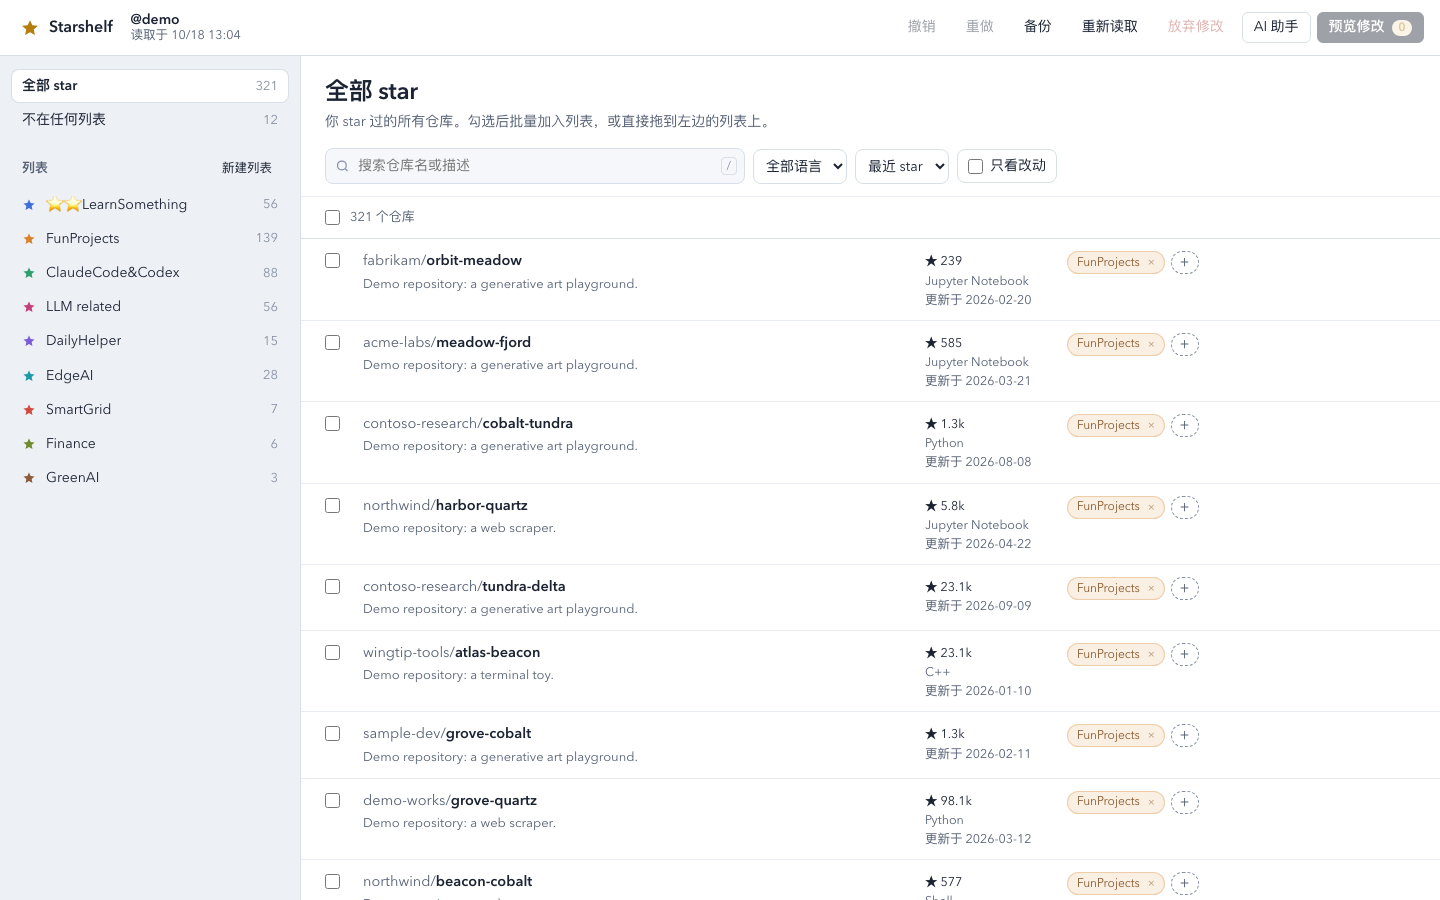
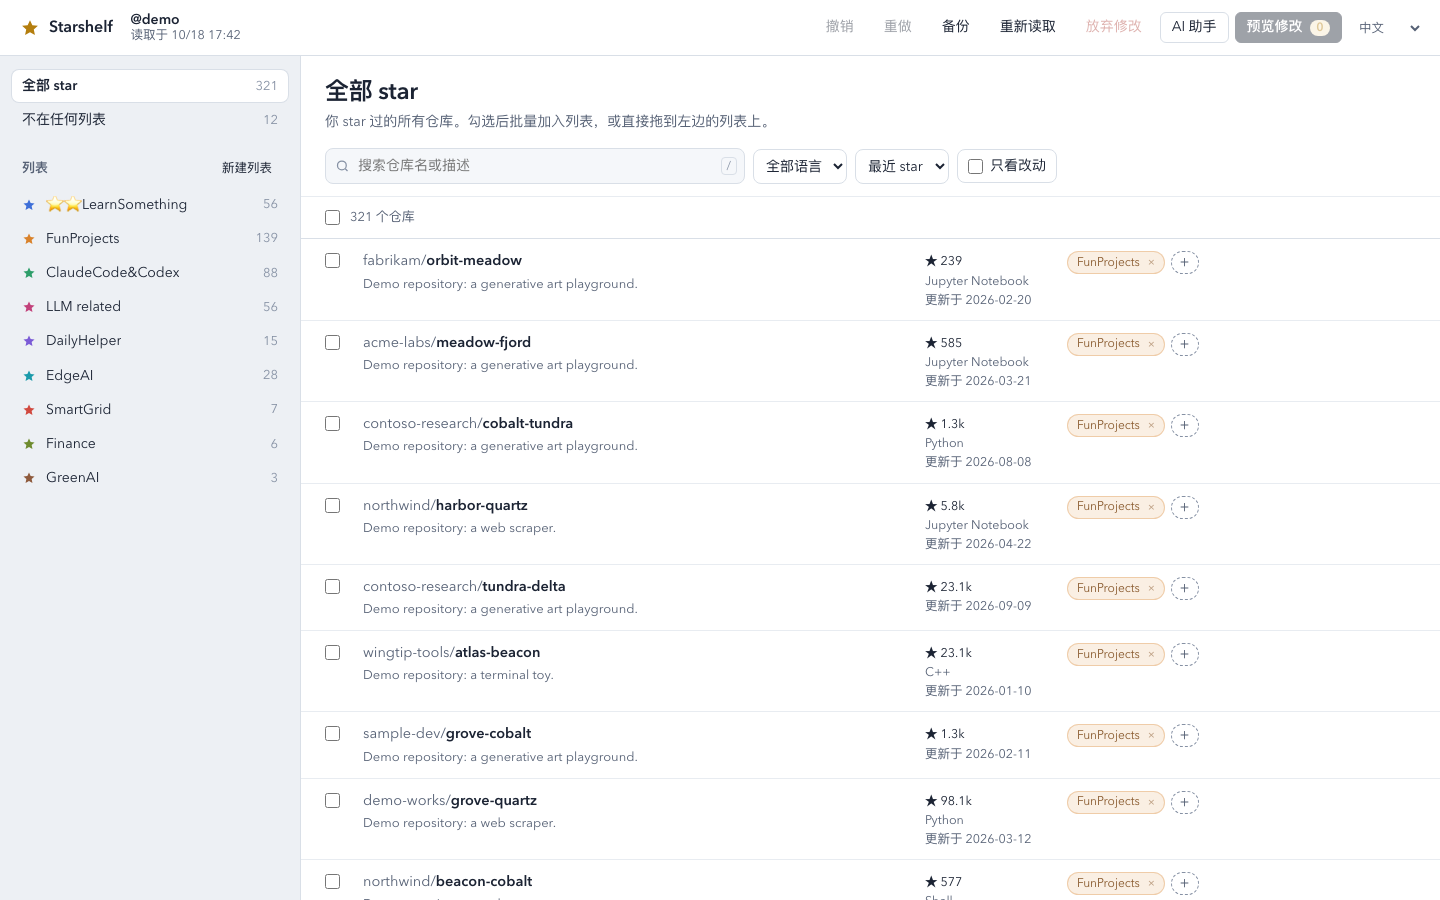
docs: language section in both READMEs, English screenshots
- README / README.zh-CN: a "Language / 界面语言" section (where the switch is,
  what follows it, first-run default, SLLanguage, what is not translated).
- docs/screenshots: redrawn in Chinese; docs/screenshots/en: the same four
  in English, used by README.md. tests/make_screenshots.py redraws both
  from the demo account (fake GitHub + fake AI, nothing applied).
- AI drawer header: tighter spacing so "AI assistant" fits at the default
  width (the backend picker shrinks first).

Changed region(s): [[0.8125, 0.0, 1.0, 0.0622], [0.625, 0.0, 0.7812, 0.0622], [0.5625, 0.0, 0.5938, 0.0311]]

diff --git a/star_lists_ui.html b/star_lists_ui.html
@@ -318,9 +318,10 @@ details pre { max-height: 220px; overflow: auto; background: var(--sunk); border
 .chat-resize:hover::after, .chat-resize:focus-visible::after, .chat-resize.dragging::after { background: var(--focus); }
 .chat-resize:focus-visible { outline: none; }
 body.resizing { cursor: col-resize; user-select: none; }
-.chat-head { display: flex; align-items: center; gap: 8px; padding: 12px 14px 10px; border-bottom: 1px solid var(--rule-2); }
-.chat-head h2 { margin: 0; font-size: 15px; font-weight: 600; flex: 1; min-width: 0; white-space: nowrap; overflow: hidden; text-overflow: ellipsis; }
-.chat-head select { max-width: 150px; font-size: 12.5px; padding: 4px 6px; }
+.chat-head { display: flex; align-items: center; gap: 6px; padding: 12px 12px 10px 14px; border-bottom: 1px solid var(--rule-2); }
+.chat-head h2 { margin: 0; font-size: 15px; font-weight: 600; flex: 1 0 auto; white-space: nowrap; }
+.chat-head select { max-width: 150px; min-width: 0; flex: 0 1 auto; font-size: 12.5px; padding: 4px 6px; }
+.chat-head button.small { padding: 4px 7px; flex: none; }
 .chat-note { padding: 8px 14px 0; font-size: 12.5px; color: var(--ink-2); }
 .chat-note:empty { display: none; }
 .chat-note .warn { margin-top: 0; padding: 7px 10px; font-size: 12px; }

diff --git a/tests/make_screenshots.py b/tests/make_screenshots.py
@@ -1,0 +1,130 @@
+"""Draw the README screenshots from the made-up demo account, in Chinese and in English.
+
+    python3 tests/make_screenshots.py      # writes docs/screenshots/*.png (中文) and docs/screenshots/en/*.png
+
+Uses the fake GitHub and a fake AI (no network, no token); nothing is applied.
+Needs: pip install playwright && python3 -m playwright install chromium
+"""
+from __future__ import annotations
+
+import sys
+import tempfile
+import threading
+from pathlib import Path
+from typing import Any
+
+ROOT = Path(__file__).resolve().parents[1]
+sys.path[:0] = [str(ROOT), str(Path(__file__).parent)]
+import star_lists_ai as ai  # noqa: E402
+import star_lists_ui as ui  # noqa: E402
+from fake_ai import FakeSuggester, chat_repos, list_names  # noqa: E402
+from fake_github import FakeGitHub  # noqa: E402
+from playwright.sync_api import Page, expect, sync_playwright  # noqa: E402
+
+SNAP = Path(__file__).parent / "fixtures" / "demo_snapshot.json"
+OUT = {"zh": ROOT / "docs" / "screenshots", "en": ROOT / "docs" / "screenshots" / "en"}
+TEXT = {
+    "zh": {"locale": "zh-CN", "ask": "请把第二个列表里两个学习类的仓库移到第一个",
+           "reply": "已把 **2 个仓库** 从 {src} 移到 {dst}：\n- {repo} 更适合 {dst}\n- 另一个也是入门教程，一起移过去了",
+           "mac": "💻 Mac & Terminal", "research": "📝 Research & Writing"},
+    "en": {"locale": "en-US", "ask": "Move the two tutorial repos in the second list to the first one",
+           "reply": "Moved **2 repositories** from {src} to {dst}:\n- {repo} fits {dst} better\n- the other one is a tutorial too, so it moved with it",
+           "mac": "💻 Mac & Terminal", "research": "📝 Research & Writing"},
+}
+
+
+def answer(prompt: ai.Prompt) -> dict[str, Any]:
+    """Move two repos from the second list to the first, replying in the page's language."""
+    refs = list(list_names(prompt))
+    src, dst = refs[1], refs[0]
+    moving = [r for r, _, inside in chat_repos(prompt) if src in inside and dst not in inside][:2]
+    text = TEXT["en" if "in English" in prompt.system else "zh"]["reply"]
+    blank = {"repos": [], "list": "", "to": "", "name": "", "description": ""}
+    return {"reply": text.format(src=src, dst=dst, repo=moving[0]),
+            "operations": [{**blank, "op": "move", "repos": moving, "list": src, "to": dst}]}
+
+
+def discard(page: Page) -> None:
+    page.keyboard.press("Escape")
+    if page.locator("#btnDiscard").is_enabled():
+        page.click("#btnDiscard")
+    page.locator("#toast").evaluate("el => el.hidden = true")
+
+
+def shoot(page: Page, lang: str, url: str) -> None:
+    out, tx = OUT[lang], TEXT[lang]
+    out.mkdir(parents=True, exist_ok=True)
+    page.goto(url)
+    expect(page.locator("#app")).to_be_visible(timeout=15000)
+    page.screenshot(path=str(out / "all-stars.png"))
+
+    # preview: a new private list from a search, a rename and a deletion
+    page.fill("#q", "data")
+    page.check("#selAll")
+    page.click("#btnNewList")
+    page.fill("#ldName", tx["research"])
+    page.check("input[name=vis][value=private]")
+    page.click("#ldSave")
+    page.fill("#q", "")
+    page.locator("#q").dispatch_event("input")
+    item = page.locator("#lists .litem", has_text="DailyHelper")
+    item.hover(); item.locator("[data-act=edit]").click()
+    page.fill("#ldName", tx["mac"]); page.click("#ldSave")
+    item = page.locator("#lists .litem", has_text="FunProjects")
+    item.hover(); item.locator("[data-act=edit]").click()
+    page.click("#ldDelete"); page.click("#ldDelete")
+    page.locator("#toast").evaluate("el => el.hidden = true")
+    page.click("#btnReview")
+    expect(page.locator("#rvActions button.primary")).to_be_visible(timeout=15000)
+    page.mouse.move(0, 0)
+    page.screenshot(path=str(out / "preview.png"))
+    discard(page)
+
+    # unstar: two repos of EdgeAI marked, the preview asks for confirmation
+    page.locator("#lists .litem", has_text="EdgeAI").locator("[data-act=view]").click()
+    rows = page.locator("#rows .row")
+    for i in range(2):
+        rows.nth(i).locator("input[type=checkbox]").check()
+    page.click("#bUnstar")
+    page.locator("#toast").evaluate("el => el.hidden = true")
+    page.click("#btnReview")
+    expect(page.locator("#rvUnstarOk")).to_be_visible(timeout=15000)
+    page.mouse.move(0, 0)
+    page.screenshot(path=str(out / "unstar-confirm.png"))
+    discard(page)
+
+    # AI assistant: one answer, shown with its change cards
+    page.click(".vbtn[data-view=all]")
+    page.click("#btnChat")
+    expect(page.locator("#chatSend")).to_be_enabled(timeout=10000)
+    page.fill("#chatInput", tx["ask"])
+    page.click("#chatSend")
+    expect(page.locator("#chatLog .changes")).to_be_visible(timeout=15000)
+    page.mouse.move(0, 0)
+    page.screenshot(path=str(out / "ai-assistant.png"))
+    discard(page)
+
+
+def main() -> int:
+    g = FakeGitHub.from_snapshot(str(SNAP), page=100)
+    app = ui.App(g, Path(tempfile.mkdtemp(prefix="sl_shots_")) / "data", sleep=0, settle=0,
+                 suggesters=[FakeSuggester(answer, id="claude-code", label="Claude Code", provider="Anthropic")])
+    server = ui.build_server(app, 18800)
+    threading.Thread(target=server.serve_forever, daemon=True).start()
+    url = f"http://127.0.0.1:{server.server_address[1]}/#t={app.token}"
+    with sync_playwright() as p:
+        browser = p.chromium.launch()
+        for lang in ("zh", "en"):
+            ctx = browser.new_context(viewport={"width": 1440, "height": 900}, locale=TEXT[lang]["locale"])
+            shoot(ctx.new_page(), lang, url)
+            ctx.close()
+        browser.close()
+    server.shutdown()
+    assert g.mutations == 0, "screenshots must not write to (fake) GitHub"
+    for lang, folder in OUT.items():
+        print(lang, sorted(f.name for f in folder.glob("*.png")))
+    return 0
+
+
+if __name__ == "__main__":
+    sys.exit(main())

diff --git a/README.md b/README.md
@@ -8,7 +8,7 @@ Organise your **GitHub Star Lists** in bulk. GitHub's web page changes one repos
 starshelf lets you create, rename and delete lists, and add, move or remove hundreds of starred
 repositories at once — in a local web page, a small macOS app, or from the command line.
 
-![All stars](docs/screenshots/all-stars.png)
+![All stars](docs/screenshots/en/all-stars.png)
 
 ## What it does
 
@@ -27,11 +27,10 @@ repositories at once — in a local web page, a small macOS app, or from the com
   "split FunProjects into three lists") — each answer edits the draft as one undoable step. AI only
   ever changes the draft. It runs through your
   local **Claude Code** or **Codex** CLI and uses that tool's own subscription — no API key, no extra bill.
-- **English or Chinese.** Switch the language in the top-right corner of the page. The choice is
-  remembered; the first time, the page follows your browser or system language. Messages from the
-  server, the AI assistant's replies and the macOS app's menus follow the same choice.
+- **English or Chinese.** One switch in the top-right corner changes the whole interface — see
+  [Language](#language).
 
-![Preview](docs/screenshots/preview.png)
+![Preview](docs/screenshots/en/preview.png)
 
 ## Requirements
 
@@ -83,7 +82,7 @@ python3 star_lists.py restore stars_backup/snapshots/<file>.json
 
 With `--yes`, a plan that removes stars also needs `--allow-unstar`.
 
-![Unstar needs confirmation](docs/screenshots/unstar-confirm.png)
+![Unstar needs confirmation](docs/screenshots/en/unstar-confirm.png)
 
 ## AI assistant
 
@@ -101,7 +100,7 @@ from a single move to a complete new layout. It asks back when a request is uncl
 - Drag the panel's left edge to make it wider or narrower (or focus the edge and use ← / →;
   double-click resets it). The width is remembered.
 
-![AI assistant](docs/screenshots/ai-assistant.png)
+![AI assistant](docs/screenshots/en/ai-assistant.png)
 
 Pick the backend in the panel:
 
@@ -113,6 +112,26 @@ Pick the backend in the panel:
 Models can be changed with `STAR_LISTS_CLAUDE_MODEL` and `STAR_LISTS_CODEX_MODEL`. Each run counts
 against that tool's subscription usage limits; Starshelf removes API-key variables from the CLI's
 environment so the subscription login is used.
+
+## Language
+
+The interface is available in **English** and **Simplified Chinese** (简体中文). Pick one with the
+switch at the right end of the top bar (next to **Preview changes**). The page redraws at once and
+keeps your draft, selection and open panel.
+
+- **What follows the choice:** every label, dialog and message on the page; messages from the local
+  server (errors, apply progress, warnings in the preview); the AI assistant's replies and its setup
+  hints; and, in the macOS app, the menus, the quit dialog and the start-up pages.
+- **The first time** (nothing chosen yet), the language comes from the launcher: the macOS app uses
+  your system language, `star_lists_ui.py` uses `LANG` / `LC_ALL` or `--lang en|zh`. Without a hint,
+  the page follows the browser's language.
+- **Remembered** per browser (and in the app, which also keeps it in the user default `SLLanguage`):
+  ```bash
+  defaults write io.github.dtjgp.starshelf SLLanguage en    # or zh
+  ```
+- **Not translated:** your own data (repository descriptions, list names), chat messages already
+  written, the technical apply log and GitHub's own error texts (always English), and the
+  command-line tool (English).
 
 ## Privacy and security
 
@@ -131,7 +150,8 @@ pip install pyyaml playwright && python3 -m playwright install chromium
 python3 tests/test_engine.py
 python3 tests/test_lifecycle.py
 python3 tests/test_ai.py
-python3 tests/test_ui.py          # browser click-through on a made-up account
+python3 tests/test_ui.py          # browser click-through on a made-up account, in Chinese and English
+python3 tests/make_screenshots.py # redraws the README screenshots (docs/screenshots, docs/screenshots/en)
 ```
 
 ## Limitations

diff --git a/README.zh-CN.md b/README.zh-CN.md
@@ -23,8 +23,7 @@
 - **可选的 AI 助手。** 在右侧对话面板里直接对 AI 说「把量化相关的仓库移到 Finance」
   「把 FunProjects 按主题拆成三个列表」，每次回答都作为一步可撤销的修改写进草稿。AI 只会改草稿。
   通过本机的 **Claude Code** 或 **Codex** 运行，使用它们自己的会员订阅，不需要 API key，也不会另外收费。
-- **中文或英文界面。** 在网页右上角切换语言，选择会被记住；第一次打开时跟随浏览器或系统语言。
-  服务器返回的提示、AI 助手的回复和 macOS 小程序的菜单都会跟着切换。
+- **中文或英文界面。** 顶部栏最右侧一个开关即可切换整个界面，见[界面语言](#界面语言)。
 
 ![预览修改](docs/screenshots/preview.png)
 
@@ -103,6 +102,22 @@ python3 star_lists.py restore stars_backup/snapshots/<文件>.json
 可以用 `STAR_LISTS_CLAUDE_MODEL`、`STAR_LISTS_CODEX_MODEL` 更换模型。每次调用都计入对应工具的会员用量限额；
 Starshelf 会从命令的环境变量里去掉 API key，确保使用的是会员登录。
 
+## 界面语言
+
+界面支持**简体中文**和**英文**（English）。在顶部栏最右侧（「预览修改」旁边）的开关里选择，页面会立即
+重新显示，草稿、已选的仓库和打开的面板都保持不变。
+
+- **会跟着切换的内容：** 网页上所有按钮、对话框和提示；本地服务器返回的信息（错误、应用进度、预览里的警告）；
+  AI 助手的回复和设置说明；在 macOS 小程序里还包括菜单、退出确认框和启动页面。
+- **第一次打开时**（还没有选过），语言由启动方式决定：macOS 小程序跟随系统语言，`star_lists_ui.py`
+  根据 `LANG` / `LC_ALL` 或 `--lang en|zh`。都没有时跟随浏览器语言。
+- **选择会被记住**（按浏览器保存；小程序还会存到用户默认设置 `SLLanguage`）：
+  ```bash
+  defaults write io.github.dtjgp.starshelf SLLanguage zh    # 或 en
+  ```
+- **不会翻译的内容：** 你自己的数据（仓库简介、列表名）、已经写下的对话记录、技术性的写入日志和 GitHub 返回的
+  错误原文（始终是英文），以及命令行工具（英文）。
+
 ## 隐私与安全
 
 - 网页只在 `127.0.0.1` 上提供；每个 API 请求都要带本次运行的密钥，并检查 Host 和 Origin。
@@ -119,7 +134,8 @@ pip install pyyaml playwright && python3 -m playwright install chromium
 python3 tests/test_engine.py
 python3 tests/test_lifecycle.py
 python3 tests/test_ai.py
-python3 tests/test_ui.py          # 在虚构账号上的浏览器点击测试
+python3 tests/test_ui.py          # 在虚构账号上的浏览器点击测试（中文和英文）
+python3 tests/make_screenshots.py # 重新生成 README 截图（docs/screenshots 为中文，docs/screenshots/en 为英文）
 ```
 
 ## 限制
